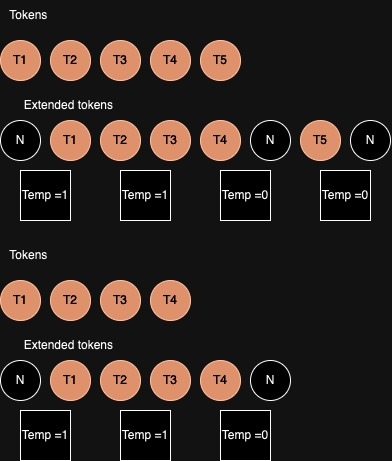
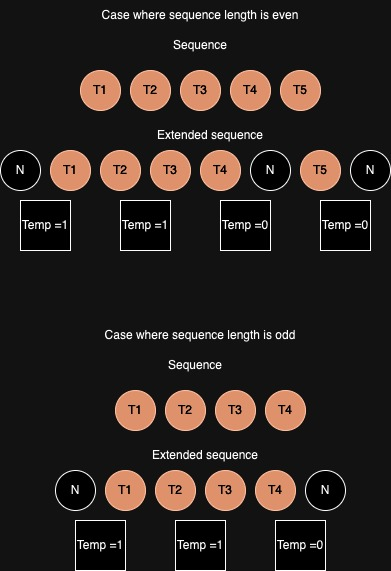
Update Alpaca, Optimized and Readme

diff --git a/README.md b/README.md
@@ -10,20 +10,20 @@ Decoder-only Large Language Models are trained using a causal masking process en
 
 ## Questionning the need of full sequence length for last token generation
 
-When giving looks at attention masks in different LLMs, we often see that to predict the n-th token, the attention is on average put on the bos token (the first token of the sequence) and the n-th-1 (the last token available). The "middle" context is less used (from what I saw, I can't prove it theoretically), many RAG experiments also support this point with the need of reranking the context properly to generate useful answers.
+When giving looks at attention masks in different LLMs, we often see that to predict the n-th token, the attention is on average put on the bos token (the first token of the sequence) and the n-th-1 (the last token available). The "middle" context is less used (from what I saw, I can't prove it theoretically), many RAG experiments also support this point with the need of re-ranking the context properly to generate useful answers.
 
 Keeping full sequence is also a challenge as it impacts strongly the computing power required by the model to process it. Transformers computing needs scale quadratically with the input sequence length, posing major challenges both from a training or generating aspect. 
 
-My question is: to predict accurately the next token regardless of the sequence lentgh, shall we keep the full past tokens or could we merge them ? 
+My question is: to predict accurately the next token regardless of the sequence length, shall we keep the full past tokens or could we merge them ? 
 
 ## Merging is the new fashion 
 
-Such proposal has been made in different papers and filed. I personnally looked at this resources:
+Such proposal has been made in different papers and filed. I personally looked at this resources:
 - Token Merging Stable Diffusion (paper) : https://arxiv.org/abs/2303.17604
 - Token Merging Stable Diffusion (library) : https://huggingface.co/docs/diffusers/optimization/tome
 - Token Merging NLP (paper) : https://llm-random.github.io/posts/mixture_of_tokens/
 
-TLDR; those papers start with the same assumption and merge the token in the input by averaging or learned representations. 
+TLDR: those papers start with the same assumption and merge the token in the input by averaging or learning new representations. 
 
 More recently, the mergekit library showcased the deep power of a relatively unknown merging techniques which is SLERP for Spherical Linear Interpolation. This merging technique is different from the simple average as it interpolates between two vectors by preserving the spherical aspects of their dimensions. 
 
@@ -37,9 +37,9 @@ The proposed merging procedure is as following:
 - The new sequence is reformatted in a sequence of pairs of consecutive tokens with a temperature defined appropriately if one of the token is null
 - The sequence of pairs is aggregated using a torch version of SLERP
 
-The core idea is to reduce the length of the sequence by a factor of two (not exactly as you get two or three aditional tokens). 
+The core idea is to reduce the length of the sequence by a factor of two (not exactly as you get two or three additional tokens). 
 
-Under is a scheme representing the process of extending the sequence:
+Under is a scheme representing the process of extending the sequence based on the sequence length:
 
 ![extend](analytics_mistral_7B/extended.jpg)
 
@@ -48,11 +48,9 @@ Here is a scheme summarizing the global merging procedure:
 ![merge](analytics_mistral_7B/merging.jpg)
 
 The merging could occur at different level of the model architecture. This parameter is referred as "layer cutoff". 
-Also, to ensure that a prompt is not completely merged, you can define a part of the sequence at the beginnig and/or at the end to be kept unchanged. It is more efficient for Instruct-based Models where the starting part of the prompt should be always reminded. 
+Also, to ensure that a prompt is not completely merged, you can define a part of the sequence at the beginning and/or at the end to be kept unchanged. It is more efficient for Instruct-based Models where the starting part of the prompt should be always reminded. 
 
 One downside of this methodology is that it strongly relies on the underlying forward pass of the used model, requiring you to carefully rewrite the "merged" process depending on the chosen model. Another downside is the necessity of recomputing attention masks and possibly positional embeddings at each step.
-
-The main advantage is its simplicity.
 
 ## Results and first comments
 
@@ -61,7 +59,7 @@ I conducted experiments on a Mistral 7B Instruct V0.2 model. My experiment is sp
 ### Next Token Generation
 First I conducted tokens' generations on 5k texts randomly picked from the CNN daily mail datasets
 
-I compare top 5 predictions of a base model kept unchanged and several variations (different layer cutoffs) of the merged model at inference. Using the huggingface pipeline helps me to easily run variations. I apply it on sequence of different lentghs (4, 8, 16, 32, 64, 128, 256, 512, 1024 and 2048).
+I compare top 5 predictions of a base model kept unchanged and several variations (different layer cutoffs) of the merged model at inference. Using the Huggingface pipeline helps me to easily run variations. I apply it on sequence of different lengths (4, 8, 16, 32, 64, 128, 256, 512, 1024 and 2048).
 
 Overall, merging tokens does not dramatically change the quality of the predictions and this is even more the case for shallower layers. This is also supported by a recent paper from Stanford proving that we could drop up to 40% of the layers (especially the last one) without seeing a decrease in quality.
 
@@ -70,7 +68,7 @@ Overall, merging tokens does not dramatically change the quality of the predicti
 
 ![Accuracy](analytics_mistral_7B/accuracy.png)
 
-The accuracy of the first predicted tokens for the merged and base model grow linearly with the merged layer position. Suprisingly, the accuracy starts at 70% for a layer cut at the 4th attention module.
+The accuracy of the first predicted tokens for the merged and base model grow linearly with the merged layer position. Surprisingly, the accuracy starts at 70% for a layer cut at the 4th attention module.
 
 No pattern in terms of shorter/longer sequence seems to emerge.
 
@@ -91,28 +89,30 @@ This plot shows the top 5 accuracy between the predicted tokens of the merged in
 
 ![timegain](analytics_mistral_7B/time_gains.png)
 
-This plot shows how many time faster the prediction of a token is between a base and merged model at different sequence length. This aprt could definitely be rewritten as many optimizations could be found in the code and the forward call.
+This plot shows how many time faster the prediction of a token is between a base and merged model at different sequence length. This part could definitely be rewritten as many optimizations could be found in the code and the forward call.
 
 ### AlpacaEval 2.0
 
-To see how bad/good the model is when merged at inference (layer cutoff set at 20), I compared a merged version to a vanilla one on the AlpacaEval benchmark (805 prompts). The leaderboard and annotations are available in the folder "code/alpaca". 
+To see how bad/good the model is when merged at inference (layer cutoff set at 20), I compared a merged version to a vanilla one on the AlpacaEval benchmark (805 prompts). The leader board and annotations are available in the folder "code/alpaca". 
 
 Two comments can be made:
-- Its does not excessively impact the quality of the output as the merged model loses 4% of winrate (not length controlled) and 7% of winrate (length controlled). Even though it is not entirely sound, it demonstrates that the model is still "alive" and not too far from the base one.
-- Merging tokens increase the verbosity of the model as the average length of the output is increased by 600 tokens. This comes from the imapct of a shorter sequence fed to the layers, resulting in different positional encodings which tend to delay the occurrence of eos_token.
+- Its does not excessively impact the quality of the output as the merged model loses 4% of win rate (not length controlled) and 7% of win rate (length controlled). Even though it is not entirely sound, it demonstrates that the model is still "alive" and not too far from the base one.
+- Merging tokens increase the verbosity of the model as the average length of the output is increased by 600 tokens. This comes from the impact of a shorter sequence fed to the layers, resulting in different positional encodings which tend to delay the occurrence of eos_token.
+
 
 The model still outperforms gemma-7b-it	 text_davinci_001 or nous-hermes-13b while averaging every pairs of tokens.
 
+
 ## Limitations and next steps
 
-As I mentionned, this work has been solely conducted on a Mistral 7B model which uses specific techniques (sliding window, RoPe embeddings). This merging idea could differ in terms of implementation depending on the model. I also received questions whether this technique could scale to bigger models where the "needle in the haystack" effect tends to be less prone.
+As I mentioned, this work has been solely conducted on a Mistral 7B model which uses specific techniques (sliding window, RoPe embeddings). This merging idea could differ in terms of implementation depending on the model. I also received questions whether this technique could scale to bigger models where the "needle in the haystack" effect tends to be less prone.
 
 Also, the merging code might be under-optimized for a perfect fast-call. 
 
-I intend to build a greater version of this technique to build eventually a wrapper class around any Causal LLM in HuggingFace enabling faster inference (like accelerate). 
+I intend to build a greater version of this technique to build eventually a wrapper class around any Causal Large Language Models in HuggingFace enabling faster inference (like accelerate). 
 
 In the end, I deeply think a dual architecture exists for LLMs: one for the training and one for the generation.
 
 ## Contacts
 Mail: samuel.chaineau@outlook.fr
-huggingface : samchain
+Huggingface : samchain
